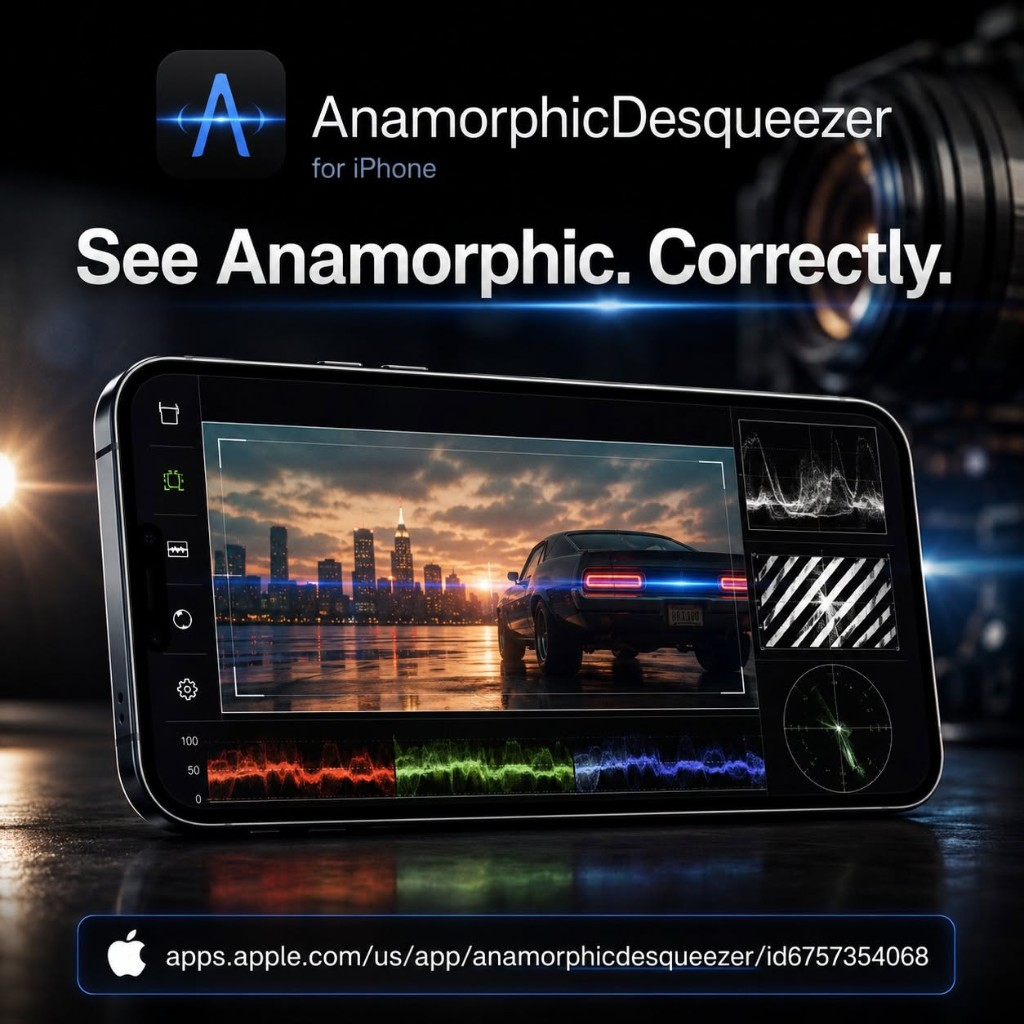
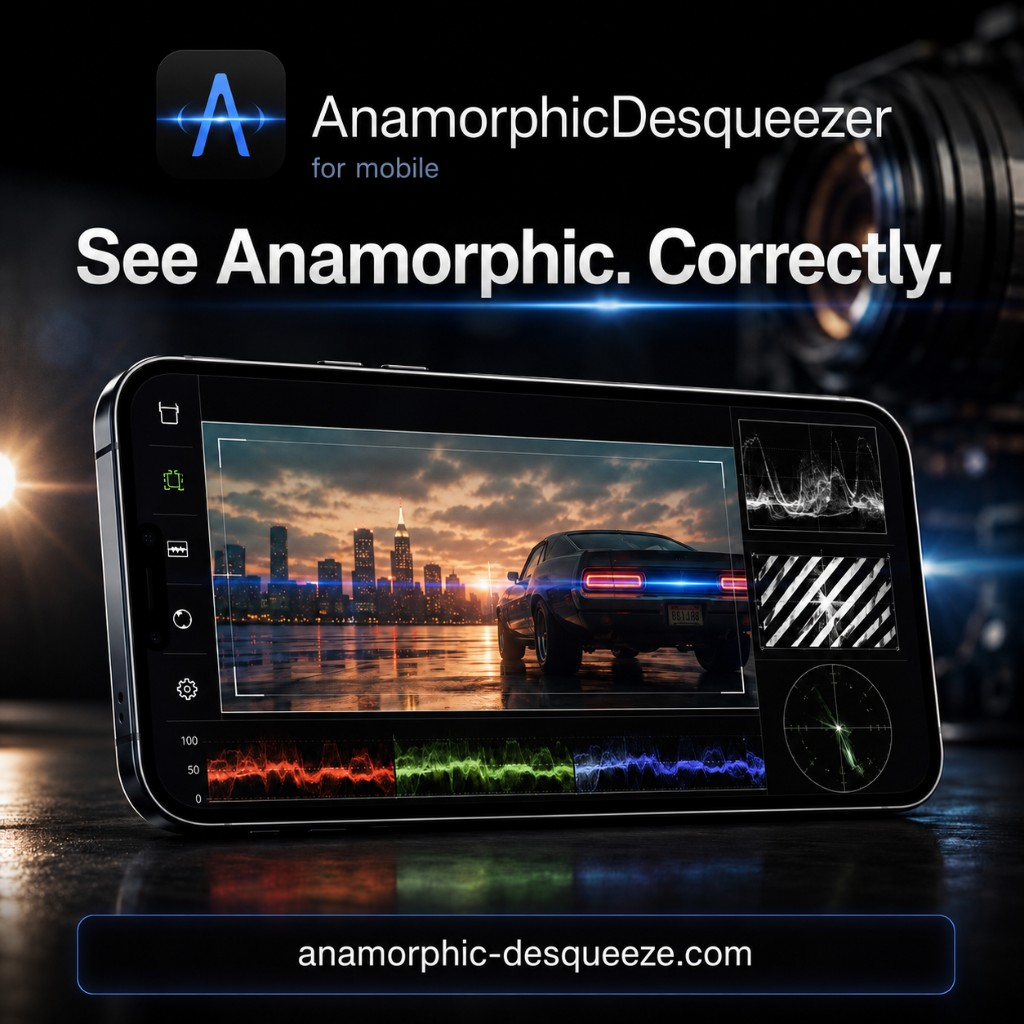
feat(anamorphic): swap mobile promo hero and show site-wide
Replace the hero image with the for-mobile creative and inject the banner on every page via site-chrome.js, keeping the split hero on the hub and anamorphic landing.

diff --git a/index.html b/index.html
@@ -553,10 +553,10 @@
         <p class="hub-hero__skips"><a href="#for-studios">For Studios &amp; Productions</a> · <a href="/anamorphic.html">Anamorphic flow</a> · <a href="/cinelutlivegrade.html">CineLut Live Grade</a> · <a href="/mediautility.html">MediaUtility</a> · <a href="/document-management-system.html">Document Management System</a> · <a href="/cinema-monitors.html">Cinema Monitor</a> · <a href="#settings">Web Studio</a> · <a href="#app-store-strip">App Store</a></p>
       </div>
       <figure class="hub-hero__visual hub-hero__visual--square" aria-labelledby="hub-anamorphic-promo-caption">
-        <a href="https://apps.apple.com/us/app/anamorphicdesqueezer/id6757354068" class="hub-hero__visual-link" target="_blank" rel="noopener">
-          <img src="/assets/anamorphic-desqueezer-iphone-hero.png" width="1024" height="1024" alt="AnamorphicDesqueezer for iPhone — See Anamorphic. Correctly. Live monitor, scopes, and CinemaScope export." loading="eager" decoding="async" />
+        <a href="/anamorphic-desqueeze-iphone.html" class="hub-hero__visual-link">
+          <img src="/assets/anamorphic-desqueezer-iphone-hero.png" width="1024" height="1024" alt="AnamorphicDesqueezer for mobile — See Anamorphic. Correctly. Live monitor, scopes, and CinemaScope export." loading="eager" decoding="async" />
         </a>
-        <figcaption class="hub-hero__visual-caption" id="hub-anamorphic-promo-caption"><a href="/anamorphic-desqueeze-iphone.html">AnamorphicDesqueezer for iPhone →</a></figcaption>
+        <figcaption class="hub-hero__visual-caption" id="hub-anamorphic-promo-caption"><a href="/anamorphic-desqueeze-iphone.html">AnamorphicDesqueezer for mobile →</a></figcaption>
       </figure>
     </div>
   </section>
@@ -1200,6 +1200,6 @@
       } catch(e) {}
     })();
   </script>
-  <script src="/assets/site-chrome.js?v=3"></script>
+  <script src="/assets/site-chrome.js?v=4"></script>
 </body>
 </html>

diff --git a/assets/site-chrome.js b/assets/site-chrome.js
@@ -72,6 +72,47 @@
     apple: 'https://apps.apple.com/za/app/anamorphicdesqueezer/id6757354068',
     google: 'https://play.google.com/store/apps/details?id=com.squeezer.app'
   };
+  var ANAMORPHIC_PROMO = {
+    src: '/assets/anamorphic-desqueezer-iphone-hero.png',
+    href: '/anamorphic-desqueeze-iphone.html',
+    alt: 'AnamorphicDesqueezer for mobile — See Anamorphic. Correctly. Live monitor, scopes, and CinemaScope export.',
+    width: 1024,
+    height: 1024
+  };
+
+  function buildAnamorphicPromoBanner() {
+    var header = document.querySelector('.site-header');
+    if (!header) {
+      return;
+    }
+    if (document.querySelector('.anamorphic-promo-banner')) {
+      return;
+    }
+    if (document.querySelector('.hub-hero__visual img[src*="anamorphic-desqueezer"]')) {
+      return;
+    }
+
+    var banner = document.createElement('div');
+    banner.className = 'anamorphic-promo-banner';
+    banner.setAttribute('role', 'region');
+    banner.setAttribute('aria-label', 'AnamorphicDesqueezer for mobile');
+
+    var link = document.createElement('a');
+    link.className = 'anamorphic-promo-banner__link';
+    link.href = ANAMORPHIC_PROMO.href;
+
+    var img = document.createElement('img');
+    img.src = ANAMORPHIC_PROMO.src;
+    img.width = ANAMORPHIC_PROMO.width;
+    img.height = ANAMORPHIC_PROMO.height;
+    img.alt = ANAMORPHIC_PROMO.alt;
+    img.loading = 'eager';
+    img.decoding = 'async';
+
+    link.appendChild(img);
+    banner.appendChild(link);
+    header.insertAdjacentElement('afterend', banner);
+  }
 
   function buildFooterTrust() {
     var footer = document.querySelector('.site-footer');
@@ -106,6 +147,7 @@
   }
 
   function onDomReady() {
+    buildAnamorphicPromoBanner();
     buildThemeToggle();
     buildFooterTrust();
   }

diff --git a/anamorphic.html b/anamorphic.html
@@ -102,16 +102,16 @@
           </div>
         </div>
         <figure class="hub-hero__visual hub-hero__visual--square" aria-labelledby="anamorphic-promo-caption">
-          <a href="https://apps.apple.com/us/app/anamorphicdesqueezer/id6757354068" class="hub-hero__visual-link" target="_blank" rel="noopener">
+          <a href="/anamorphic-desqueeze-iphone.html" class="hub-hero__visual-link">
             <img
               src="/assets/anamorphic-desqueezer-iphone-hero.png"
               width="1024"
               height="1024"
-              alt="AnamorphicDesqueezer for iPhone — See Anamorphic. Correctly. Live monitor, scopes, and CinemaScope export."
+              alt="AnamorphicDesqueezer for mobile — See Anamorphic. Correctly. Live monitor, scopes, and CinemaScope export."
               loading="eager"
               decoding="async" />
           </a>
-          <figcaption class="hub-hero__visual-caption" id="anamorphic-promo-caption"><a href="/anamorphic-desqueeze-iphone.html">AnamorphicDesqueezer for iPhone →</a></figcaption>
+          <figcaption class="hub-hero__visual-caption" id="anamorphic-promo-caption"><a href="/anamorphic-desqueeze-iphone.html">AnamorphicDesqueezer for mobile →</a></figcaption>
         </figure>
       </div>
     </section>
@@ -181,6 +181,6 @@
     </div>
   </footer>
   <script>document.getElementById("y").textContent = new Date().getFullYear();</script>
-  <script src="/assets/site-chrome.js?v=3"></script>
+  <script src="/assets/site-chrome.js?v=4"></script>
 </body>
 </html>

diff --git a/anamorphic-desqueeze-iphone.html b/anamorphic-desqueeze-iphone.html
@@ -66,12 +66,6 @@
     </div>
   </header>
 
-  <div class="anamorphic-promo-banner" role="region" aria-label="AnamorphicDesqueezer for iPhone">
-    <a class="anamorphic-promo-banner__link" href="https://apps.apple.com/us/app/anamorphicdesqueezer/id6757354068" target="_blank" rel="noopener">
-      <img src="/assets/anamorphic-desqueezer-iphone-hero.png" width="1024" height="1024" alt="AnamorphicDesqueezer for iPhone — See Anamorphic. Correctly. Live monitor, scopes, and CinemaScope export." loading="eager" decoding="async" />
-    </a>
-  </div>
-
   <main class="product-main">
     <header class="product-hero">
       <p class="product-hero__eyebrow">Native app · iPhone &amp; iPad</p>
@@ -201,6 +195,6 @@
     </div>
   </footer>
   <script>document.getElementById("y").textContent = new Date().getFullYear();</script>
-  <script src="/assets/site-chrome.js?v=3"></script>
+  <script src="/assets/site-chrome.js?v=4"></script>
 </body>
 </html>

diff --git a/moment-anamorphic-desqueeze.html b/moment-anamorphic-desqueeze.html
@@ -62,12 +62,6 @@
     </div>
   </header>
 
-  <div class="anamorphic-promo-banner" role="region" aria-label="AnamorphicDesqueezer for iPhone">
-    <a class="anamorphic-promo-banner__link" href="https://apps.apple.com/us/app/anamorphicdesqueezer/id6757354068" target="_blank" rel="noopener">
-      <img src="/assets/anamorphic-desqueezer-iphone-hero.png" width="1024" height="1024" alt="AnamorphicDesqueezer for iPhone — See Anamorphic. Correctly." loading="eager" decoding="async" />
-    </a>
-  </div>
-
   <main class="product-main">
     <header class="product-hero">
       <p class="product-hero__eyebrow">Lens workflow · Moment</p>
@@ -146,6 +140,6 @@
     </div>
   </footer>
   <script>document.getElementById("y").textContent = new Date().getFullYear();</script>
-  <script src="/assets/site-chrome.js?v=3"></script>
+  <script src="/assets/site-chrome.js?v=4"></script>
 </body>
 </html>

diff --git a/sirui-anamorphic-desqueeze.html b/sirui-anamorphic-desqueeze.html
@@ -62,12 +62,6 @@
     </div>
   </header>
 
-  <div class="anamorphic-promo-banner" role="region" aria-label="AnamorphicDesqueezer for iPhone">
-    <a class="anamorphic-promo-banner__link" href="https://apps.apple.com/us/app/anamorphicdesqueezer/id6757354068" target="_blank" rel="noopener">
-      <img src="/assets/anamorphic-desqueezer-iphone-hero.png" width="1024" height="1024" alt="AnamorphicDesqueezer for iPhone — See Anamorphic. Correctly." loading="eager" decoding="async" />
-    </a>
-  </div>
-
   <main class="product-main">
     <header class="product-hero">
       <p class="product-hero__eyebrow">Lens workflow · Sirui</p>
@@ -145,6 +139,6 @@
     </div>
   </footer>
   <script>document.getElementById("y").textContent = new Date().getFullYear();</script>
-  <script src="/assets/site-chrome.js?v=3"></script>
+  <script src="/assets/site-chrome.js?v=4"></script>
 </body>
 </html>

diff --git a/cinemascope-export-online.html b/cinemascope-export-online.html
@@ -62,12 +62,6 @@
     </div>
   </header>
 
-  <div class="anamorphic-promo-banner" role="region" aria-label="AnamorphicDesqueezer for iPhone">
-    <a class="anamorphic-promo-banner__link" href="https://apps.apple.com/us/app/anamorphicdesqueezer/id6757354068" target="_blank" rel="noopener">
-      <img src="/assets/anamorphic-desqueezer-iphone-hero.png" width="1024" height="1024" alt="AnamorphicDesqueezer for iPhone — See Anamorphic. Correctly." loading="eager" decoding="async" />
-    </a>
-  </div>
-
   <main class="product-main">
     <header class="product-hero">
       <p class="product-hero__eyebrow">Deliverable · Aspect</p>
@@ -149,6 +143,6 @@
     </div>
   </footer>
   <script>document.getElementById("y").textContent = new Date().getFullYear();</script>
-  <script src="/assets/site-chrome.js?v=3"></script>
+  <script src="/assets/site-chrome.js?v=4"></script>
 </body>
 </html>

diff --git a/how-to-desqueeze-1-33x.html b/how-to-desqueeze-1-33x.html
@@ -353,12 +353,6 @@
     </div>
   </header>
 
-  <div class="anamorphic-promo-banner" role="region" aria-label="AnamorphicDesqueezer for iPhone">
-    <a class="anamorphic-promo-banner__link" href="https://apps.apple.com/us/app/anamorphicdesqueezer/id6757354068" target="_blank" rel="noopener">
-      <img src="/assets/anamorphic-desqueezer-iphone-hero.png" width="1024" height="1024" alt="AnamorphicDesqueezer for iPhone — See Anamorphic. Correctly." loading="eager" decoding="async" />
-    </a>
-  </div>
-
   <div class="wrapper">
     <header class="hero">
       <div class="card">
@@ -646,6 +640,6 @@
       } catch(e) {}
     })();
   </script>
-  <script src="/assets/site-chrome.js?v=3"></script>
+  <script src="/assets/site-chrome.js?v=4"></script>
 </body>
 </html>

diff --git a/virtual-monitors.html b/virtual-monitors.html
@@ -163,7 +163,7 @@
     </div>
   </footer>
   <script>document.getElementById("y").textContent = new Date().getFullYear();</script>
-  <script src="/assets/site-chrome.js?v=3"></script>
+  <script src="/assets/site-chrome.js?v=4"></script>
 </body>
 </html>
 

diff --git a/cinelutlivegrade.html b/cinelutlivegrade.html
@@ -243,6 +243,6 @@
     </div>
   </footer>
   <script>document.getElementById("y").textContent = new Date().getFullYear();</script>
-  <script src="/assets/site-chrome.js?v=3"></script>
+  <script src="/assets/site-chrome.js?v=4"></script>
 </body>
 </html>

diff --git a/cinema-monitors.html b/cinema-monitors.html
@@ -233,6 +233,6 @@
     </div>
   </footer>
   <script>document.getElementById("y").textContent = new Date().getFullYear();</script>
-  <script src="/assets/site-chrome.js?v=3"></script>
+  <script src="/assets/site-chrome.js?v=4"></script>
 </body>
 </html>

diff --git a/document-management-system.html b/document-management-system.html
@@ -129,6 +129,6 @@
     </div>
   </footer>
   <script>document.getElementById("y").textContent = new Date().getFullYear();</script>
-  <script src="/assets/site-chrome.js?v=3"></script>
+  <script src="/assets/site-chrome.js?v=4"></script>
 </body>
 </html>
